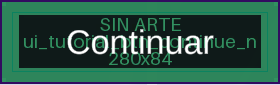
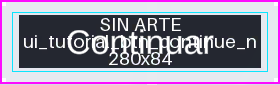
fix(ui): el tinte de continue/retry se normaliza y Button_Name recupera el press
Dos controles quedaban mintiendo y los dos se miden en la pantalla.

`ContinueButton` y `RetryButton` conservaban `m_Color` 0.16/0.55/0.35: con la
luminancia WCAG que usa el propio proyecto (L = 0.1995) APW-3 manda normalizar a
(1,1,1), y el mapa los habia dejado afuera leyendo una luma de 0.411. Consecuencia
medida: el marco #FF00FF de la pieza se apagaba a verde y la firma de APA-2
desaparecia de 4 capturas. Se normaliza el RGB, el alfa (0.95) queda intacto, el
valor previo vive en `tint_original`, y los 4 recortes (normal y pressed, de los
dos botones) se volvieron a capturar con el rig de la camara del canvas. La
panoramica `tutorial-overlay.png` sale byte-identica: el boton no se ve en ella.

`Button_Name` estaba en `m_Transition: 2` con **solo** `m_DisabledSprite`, asi que
presionarlo no cambiaba nada. Ahora lleva `m_SpriteState.m_PressedSprite` = la
variante pressed del maestro (el mismo GUID que `Button_Audio`), y el gate lo
exige para toda fila `selectable_state`: un press mudo es un boton roto, no un
costo recortado. La fila del mapa sigue declarando `m_DisabledSprite` y el costo
que APW-4b tiene (se pierde el tinte de press y de hover; ninguno de los 7 tiene
`m_HighlightedSprite`) queda escrito ahi.

El mapa, ademas, deja de describir `zone_veil` como "pantalla completa": el nodo
medido es 286.2x144.69 con anclas 0.5/0.5 dentro del countdown, y el de pantalla
completa es su padre. El cable y la asignacion no cambian; cambia la prosa.

diff --git a/Docs/art/placeholders-v1.md b/Docs/art/placeholders-v1.md
@@ -26,9 +26,15 @@ este archivo existe para personas y no se parsea.
 
 - `selectable_state` **es** la excepción `spriteswap` (APW-4b): permite `m_Transition 1→2` y
   `m_SpriteState.m_PressedSprite` / `m_DisabledSprite`. `m_ColorBlock` no se toca y queda como
-  vía de reversión. Costo: esos Selectables pierden el feedback de tinte al presionar.
+  vía de reversión. Costo declarado: esos Selectables pierden **todo** el feedback de tinte —
+  con `m_Transition: 2` el `m_ColorBlock` no se aplica, así que el press y el hover dejan de
+  tintarse, y ninguno de los 7 tiene `m_HighlightedSprite`: el estado `Highlighted` queda
+  idéntico al normal. Lo que el gate no admite es un press **mudo**: toda fila
+  `selectable_state` tiene que llevar un `m_PressedSprite` no vacío.
 - `image+alfa_host`: el host tiene alfa < 1 por diseño (`SkipButton` 0.9, `ContinueButton` 0.95,
-  `RetryButton` 0.95, `DangerStrip` 0.12). Se cablea el sprite y **no** se toca el alfa.
+  `RetryButton` 0.95, `DangerStrip` 0.12). Se cablea el sprite y **no** se toca el alfa; el RGB
+  sí se normaliza a `(1,1,1)` cuando la luminancia WCAG del `m_Color` original baja de 0.25
+  (APW-3), y el valor previo queda en `tint_original`.
 - `image+tinte_design`: las dos piezas `flat4` son relleno blanco de 4×4 que se estira a pantalla
   completa; su `m_Color` oscuro **es** el efecto (`Dim` = velo negro, `zone_veil` = velo del
   countdown). Se cablea el sprite y **no** se normaliza el tinte: normalizarlo convertiría un
@@ -52,6 +58,13 @@ de un host que no las muestra). Se corrige **la celda**, no el código:
 | `ui_common_btn_primary_pressed_01` | `Canvas/Configuration/Contenedor/SubContainer/Button_Audio` | `Selectable` con `m_Transition: 1` y `m_Sprite` = `Button_UI`: es el caso exacto de la variante `pressed` |
 | `ui_common_btn_primary_disabled_01` | `Canvas/Configuration/Contenedor/SubContainer/Button_Name` | ídem para `m_DisabledSprite` |
 
+`Button_Name` lleva **además** `m_SpriteState.m_PressedSprite` = la variante `pressed` del maestro
+(el mismo GUID que `Button_Audio`). No es una segunda fila: es la condición para que el botón no
+quede con el press mudo — con `m_Transition: 2` y sólo `m_DisabledSprite`, presionarlo no cambiaba
+nada. La fila sigue declarando el campo que le toca (`m_DisabledSprite`) y el gate verifica, para
+toda fila `selectable_state`, que el press no esté vacío. Entre los dos botones quedan cubiertas
+las dos variantes y los dos estados.
+
 **Alcance y costo, medidos**: el costo que APW-4b declara ("19 botones pierden el tinte") **no se
 materializa** en este slice: quedan 7 `Selectable` con `m_Transition: 2` (skip, continue, retry,
 settings, play, audio, name), no 19. Los otros 13 consumidores de `Button_UI` siguen en `ColorTint`
@@ -65,10 +78,14 @@ toca código) y el gate las empieza a admitir.
 y `.../CalloutRight/Hand` ya son `hand_point_left/right`) y `ui_tutorial_icon_star_01` no tiene
 nodo badge: las cuatro van `sin_slot`. Crear el nodo es diseño de UI, no cableado (APW-1).
 
-`game_board_zone_veil_01` se cablea en el velo del
-countdown de `Game.unity` (`TimeLineToStart/Canva/Canvas/Image/Image`, negro a 0.298): es el
-único Image de pantalla completa con `m_Color` oscuro del tablero. Si el dueño de la UI
-pretendía otro velo, se corrige esa celda y el checker vuelve a pasar sin tocar código.
+`game_board_zone_veil_01` se cablea en `TimeLineToStart/Canva/Canvas/Image/Image` de `Game.unity`,
+el Image del **countdown**: medido, `m_SizeDelta` **286.2×144.69**, anclas `0.5/0.5` y `m_Color`
+negro a `0.29803923`. **No** es de pantalla completa — el Image de pantalla completa es su padre
+(`TimeLineToStart/Canva/Canvas/Image`, anclas `0/1`, `m_Color` blanco, sprite real). Así que el
+cable oscurece una franja centrada de 286×145 dentro del countdown, no el tablero: el recorte mide
+exactamente eso. Es un cable real a un nodo declarado, capturado y reversible con una celda, pero
+la intención ("velo de zona del tablero") no está confirmada por el dueño de la UI: si pretendía
+otro velo, se corrige esa celda y el checker vuelve a pasar sin tocar código.
 
 ```csv
 pieza,slot_tipo,asset,nodo,componente,campo,estado,tint_original,transition_original,captura
@@ -137,12 +154,14 @@ Tres decisiones del rig, declaradas porque afectan lo que se ve:
    play mode no escribe la escena.
 
 **Firma visual, en las capturas**: el marco `#FF00FF` y la etiqueta se ven en `bubble`, `skip`,
-`panel_retry`, `btn_primary_*`, `play` y `settings`. En `continue`/`retry` el tinte del host
-(`0.16/0.55/0.35`) **mata el magenta** (255×0.55 en G, 255×0.16 en R): el marco queda verde y la
-firma no pasa el umbral de APA-2. Es la consecuencia medida de no normalizar hosts con luminancia
-> 0.25 (APW-3); la pieza sigue siendo inconfundible por la placa `SIN ARTE`. En `dim` y `zone_veil`
-> la firma no existe por diseño (`flat4`, `except: sin_firma`), y en `danger` (alfa 0.12) y en los
-> dots (alfa 0.25/0.55) el alfa del host baja el magenta bajo el umbral sin cambiarlo de tono.
+`panel_retry`, `continue`, `retry`, `btn_primary_*`, `play` y `settings`. `continue`/`retry`
+tenían el host en `0.16/0.55/0.35`: con esa luminancia la firma medía **`L = 0.1995 < 0.25`** y el
+magenta se apagaba a verde, así que no era una excepción legítima — eran dos hosts que APW-3 manda
+normalizar y se habían quedado afuera por leer la luma (`0.411`) en vez de la luminancia WCAG. Se
+normalizaron a `(1,1,1)` con el alfa intacto (`0.95`) y **se volvieron a capturar los 4 recortes**
+(`continue` y `retry`, normal y pressed). En `dim` y `zone_veil` la firma no existe por diseño
+(`flat4`, `except: sin_firma`), y en `danger` (alfa 0.12) y en los dots (alfa 0.25/0.55) el alfa
+del host baja el valor del magenta sin cambiarle el tono.
 
 ## Reversión
 
